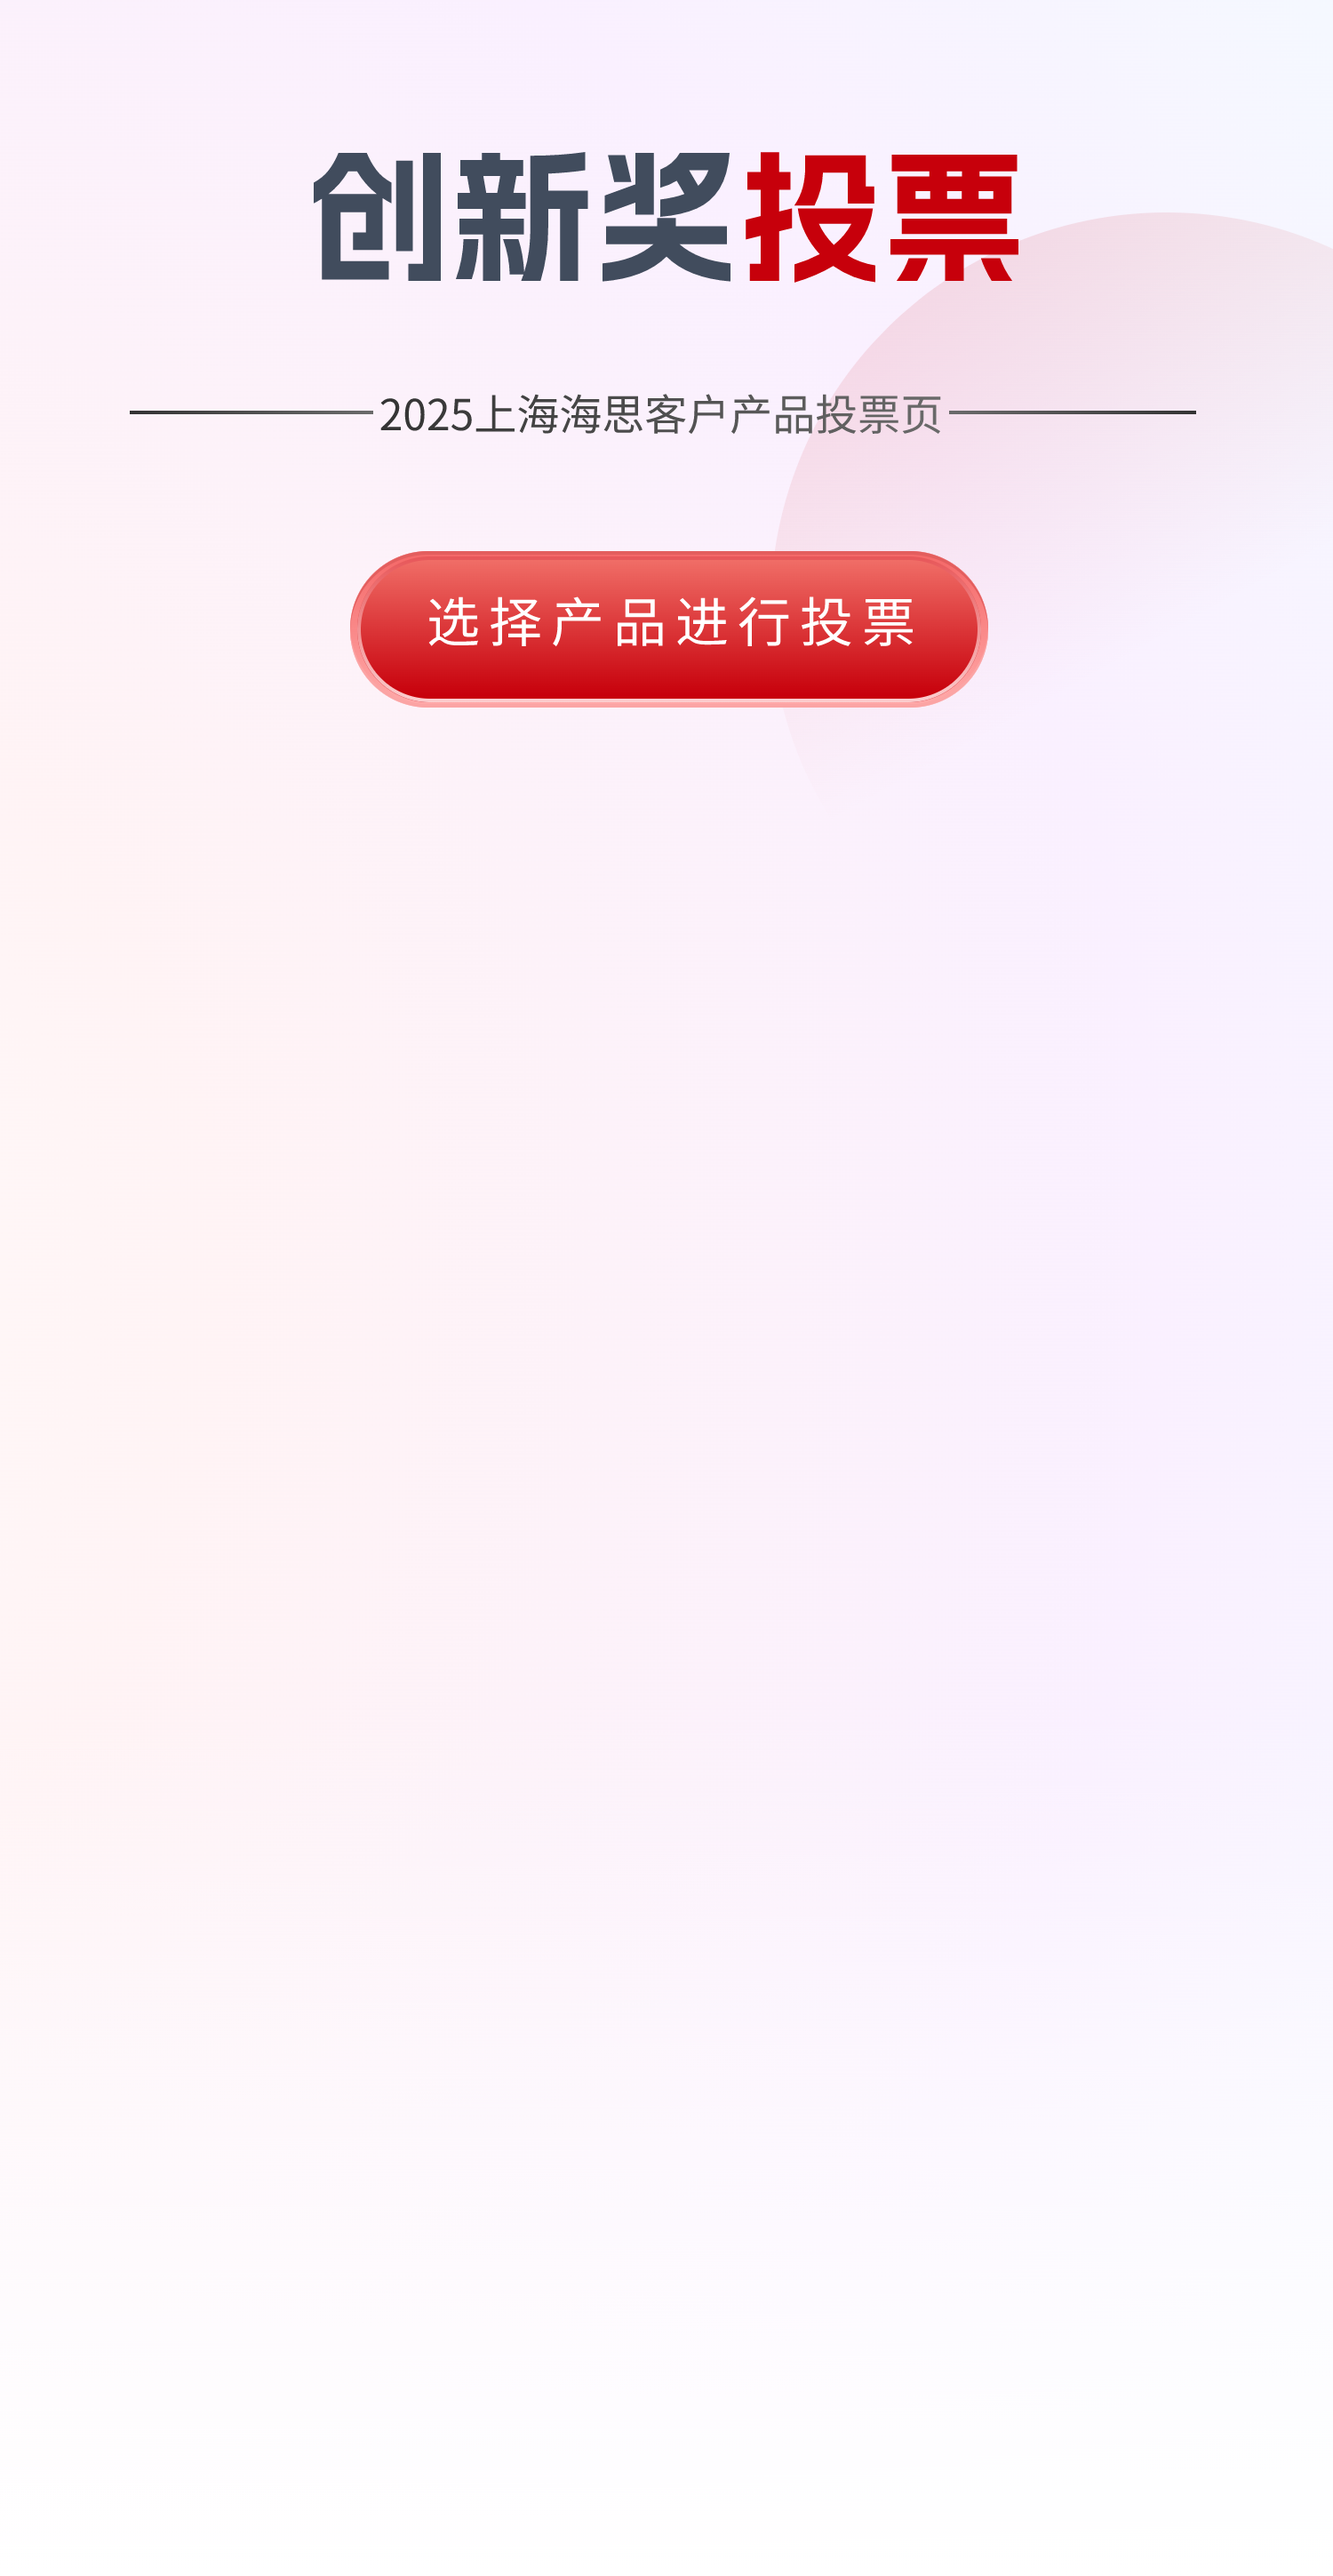
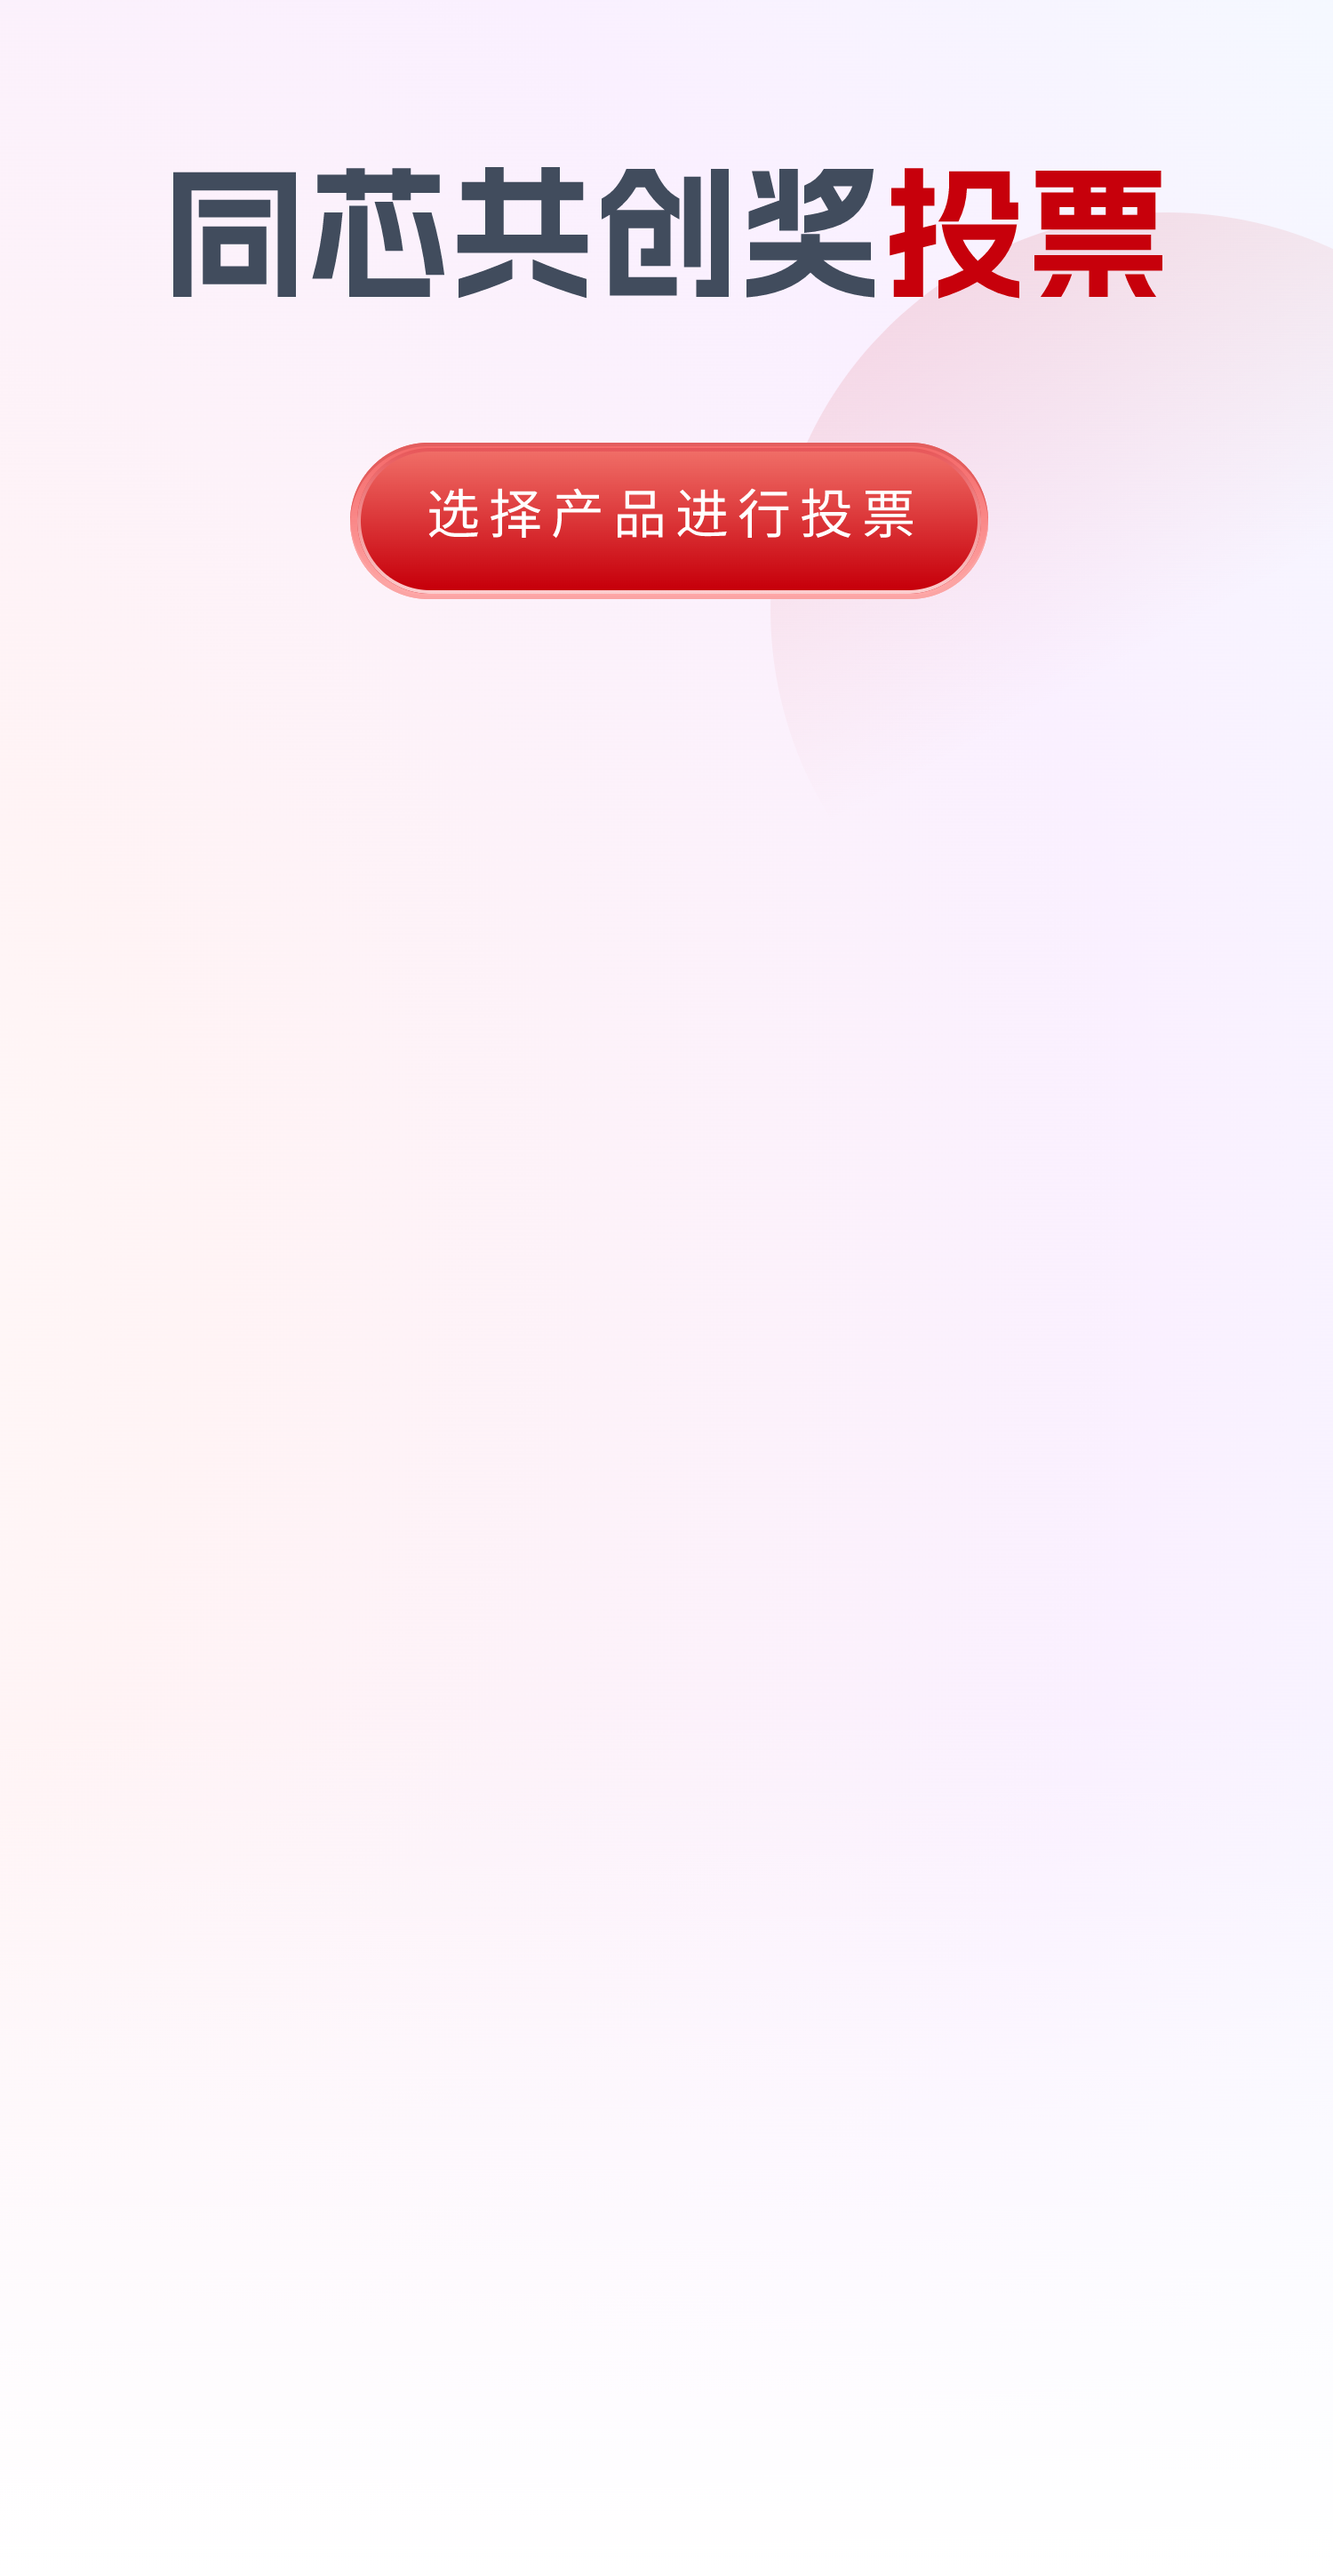
feat(): 0804修改提交、区分H5和小程序打开

Changed region(s): [[0.2453, 0.1553, 0.7667, 0.2795], [0.1227, 0.0621, 0.8893, 0.1242]]

diff --git a/src/views/toupiao.vue b/src/views/toupiao.vue
@@ -76,8 +76,17 @@
 <script setup>
 import { ref, reactive, onMounted } from "vue";
 import { Button, message } from "ant-design-vue";
-import { sendVerifyCode, codeVerify, options, vote } from "@/api/toupiao.js";
+import {
+  sendVerifyCode,
+  codeVerify,
+  options,
+  optionsApp,
+  vote,
+  voteApp,
+} from "@/api/toupiao.js";
 import { showSuccessToast, showFailToast } from "vant";
+import { useRoute, useRouter } from "vue-router";
+const route = useRoute();
 // 登录按钮loading
 const loginLoading = ref();
 // 登录按钮禁用
@@ -157,46 +166,71 @@ const verifyCode = () => {
   });
 };
 // 获取列表
-const getList = () => {
-  options({
-    phone: localStorage.getItem("phone") || "",
-    code: localStorage.getItem("code") || "",
-  }).then((res) => {
-    if (res.code == 400) {
-      showLogin.value = true;
-    } else {
-      optionsList.value = res.data.voteOptionList || [];
-      res.data.voteOptionList.forEach((item) => {
-        if (item.isSelect) {
-          arrayVoteIds.value.push(item.id); // 将选中的ID添加到数组
-        }
-      });
-      remainingVotes.value = res.data.remainChance;
-    }
-  });
+const getList = async () => {
+  let code = localStorage.getItem("code");
+  let phone = localStorage.getItem("phone");
+  let token = localStorage.getItem("token");
+  let res;
+  if (token) {
+    res = await optionsApp();
+  } else {
+    res = await options({
+      phone,
+      code,
+    });
+  }
+  if (res.code == 400) {
+    showLogin.value = true;
+  } else {
+    optionsList.value = res.data.voteOptionList || [];
+    res.data.voteOptionList.forEach((item) => {
+      if (item.isSelect) {
+        arrayVoteIds.value.push(item.id); // 将选中的ID添加到数组
+      }
+    });
+    remainingVotes.value = res.data.remainChance;
+  }
 };
 // 投票
-const voteOption = () => {
+const voteOption = async () => {
   if (arrayVoteIds.value.length == 0) {
     showFailToast("请选择投票选项");
     return;
   }
-  vote({
-    code: localStorage.getItem("code"),
-    phone: localStorage.getItem("phone"),
-    voteIds: arrayVoteIds.value,
-  }).then((res) => {
-    console.log(res);
-    if (res.code == 0) {
-      showSuccessToast("投票成功");
-      arrayVoteIds.value = [];
-      getList();
-    }
-  });
+  let code = localStorage.getItem("code");
+  let phone = localStorage.getItem("phone");
+  let voteIds = arrayVoteIds.value;
+  let token = localStorage.getItem("token");
+  let res;
+  if (token) {
+    res = await voteApp({
+      voteIds,
+    });
+  } else {
+    res = await vote({
+      code,
+      phone,
+      voteIds,
+    });
+  }
+  console.log(res);
+  if (res.code == 0) {
+    showSuccessToast("投票成功");
+    arrayVoteIds.value = [];
+    getList();
+  }
 };
 onMounted(() => {
-  showLogin.value = !localStorage.getItem("phone");
-  getList();
+  const urlParams = new URLSearchParams(window.location.search);
+  const urlToken = urlParams.get("token");
+  if (route.query.token || urlToken) {
+    window.console.log(route.query.token || urlToken);
+    localStorage.setItem("token", route.query.token || urlToken);
+  }
+  setTimeout(() => {
+    showLogin.value = !localStorage.getItem("token");
+    getList();
+  }, 0);
 });
 </script>
 <style>
@@ -230,32 +264,7 @@ onMounted(() => {
     width: 80%;
     margin: 5px auto;
   }
-  .item-btn-selected {
-    width: 60px;
-    background-color: #c7000b !important;
-    color: #fff !important;
-    border: none;
-    padding: 0px;
-    height: 28px;
-    box-shadow: none;
-  }
-  .item-btn {
-    width: 60px;
-    background-color: #f0f0f0 !important;
-    color: black;
-    padding: 0px;
-    height: 28px;
-    box-shadow: none;
-    &:hover {
-      background-color: #f0f0f0 !important;
-      color: black !important;
-    }
-    &:disabled {
-      background-color: #c7000b !important;
-      color: #fff !important;
-      border: none;
-    }
-  }
+
   .item-btn-disabled {
     background: #f0f0f0;
     color: black;
@@ -334,5 +343,31 @@ div {
 .submit-btn {
   width: 90%;
   background-color: #c7000b !important;
+}
+.item-btn-selected {
+  width: 60px;
+  background-color: #c7000b !important;
+  color: #fff !important;
+  border: none;
+  padding: 0px;
+  height: 28px;
+  box-shadow: none;
+}
+.item-btn {
+  width: 60px;
+  background-color: #f0f0f0 !important;
+  color: black;
+  padding: 0px;
+  height: 28px;
+  box-shadow: none;
+  &:hover {
+    background-color: #f0f0f0 !important;
+    color: black !important;
+  }
+  &:disabled {
+    background-color: #c7000b !important;
+    color: #fff !important;
+    border: none;
+  }
 }
 </style>

diff --git a/src/utils/request.js b/src/utils/request.js
@@ -41,7 +41,7 @@ http.interceptors.response.use(
         // console.log(response);
         const res = response.data;
         if(response.data.code==400){
-            showFailToast(response.data.message)
+            // showFailToast(response.data.message)
         }
         return res
         // if (res.code == 200 || res.code == 0 || res.meta.code == '1'||res.code==400||res.code==401) {

diff --git a/src/api/toupiao.js b/src/api/toupiao.js
@@ -17,3 +17,11 @@ export function options(data) {
 export function vote(data) {
   return http.post(`vote/vote`, data);
 }
+// /isite/voteApp/options//查询投票列表/isite/vote/options
+export function optionsApp(data) {
+  return http.post(`voteApp/options`, data);
+}
+//投票 /isite/voteApp/vote
+export function voteApp(data) {
+  return http.post(`voteApp/vote`, data);
+}

diff --git a/public/index.html b/public/index.html
@@ -6,7 +6,7 @@
     <meta name="viewport" content="width=device-width, initial-scale=1.0, maximum-scale=1.0, minimum-scale=1.0, user-scalable=no">
     <meta name="screen-orientation" content="landscape">
     <link rel="icon" href="">
-    <title>2025上海海思创新大会</title>
+    <title>同芯共创奖投票</title>
   </head>
   <body>
     <noscript>
